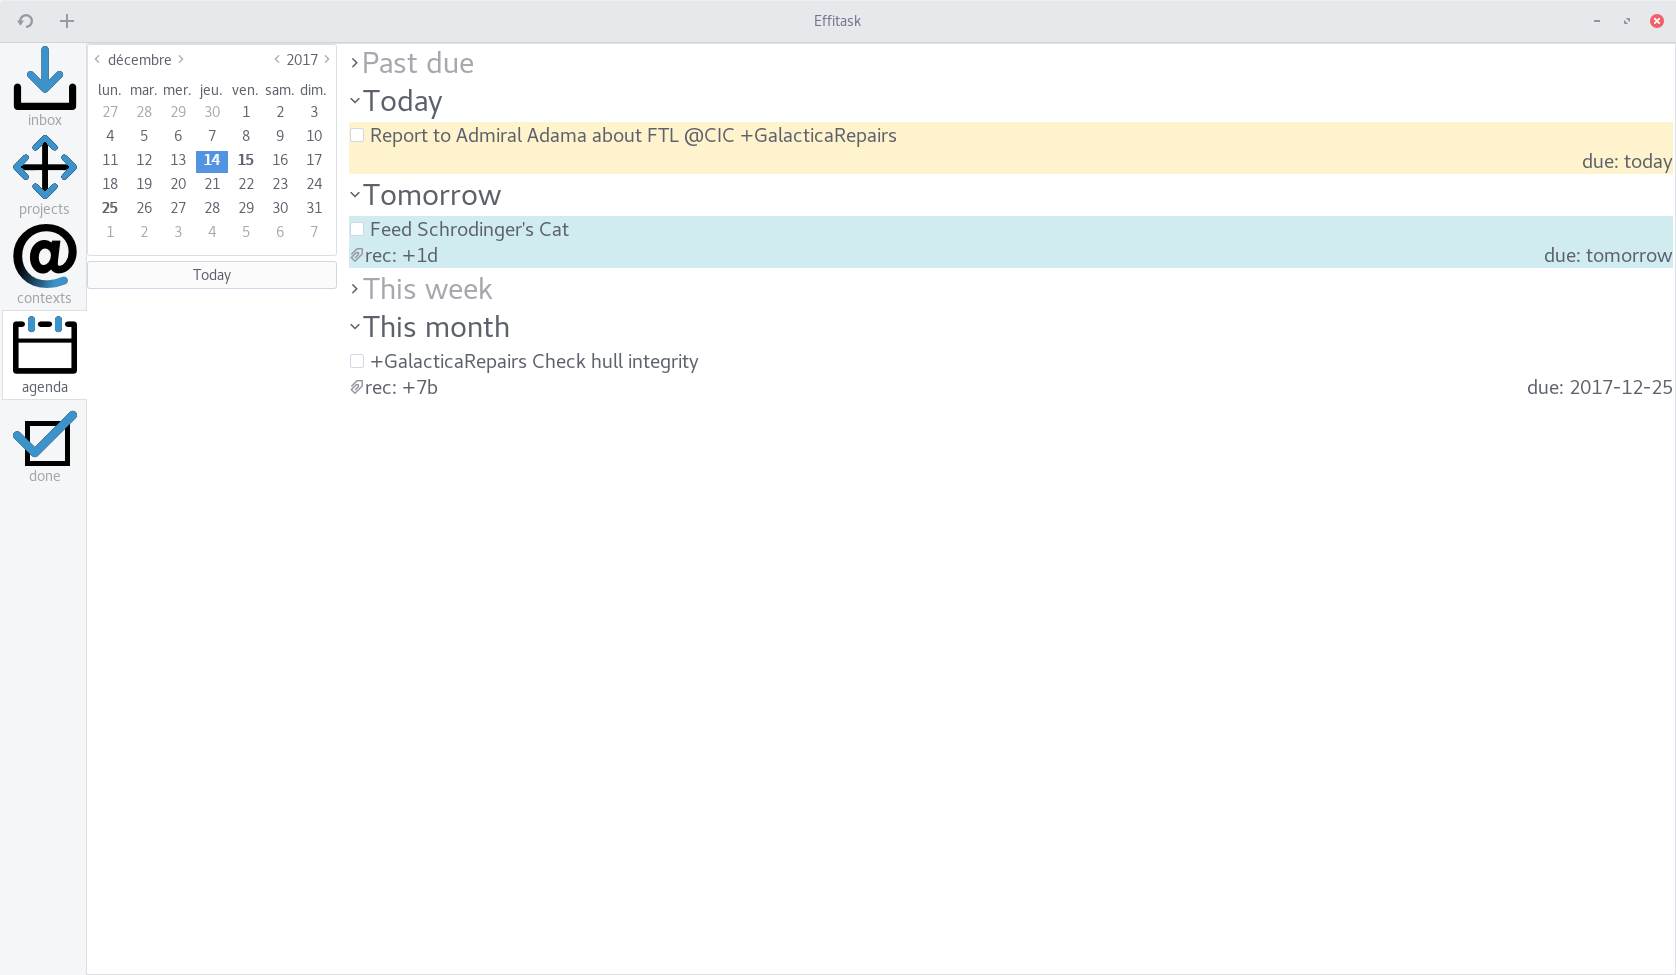
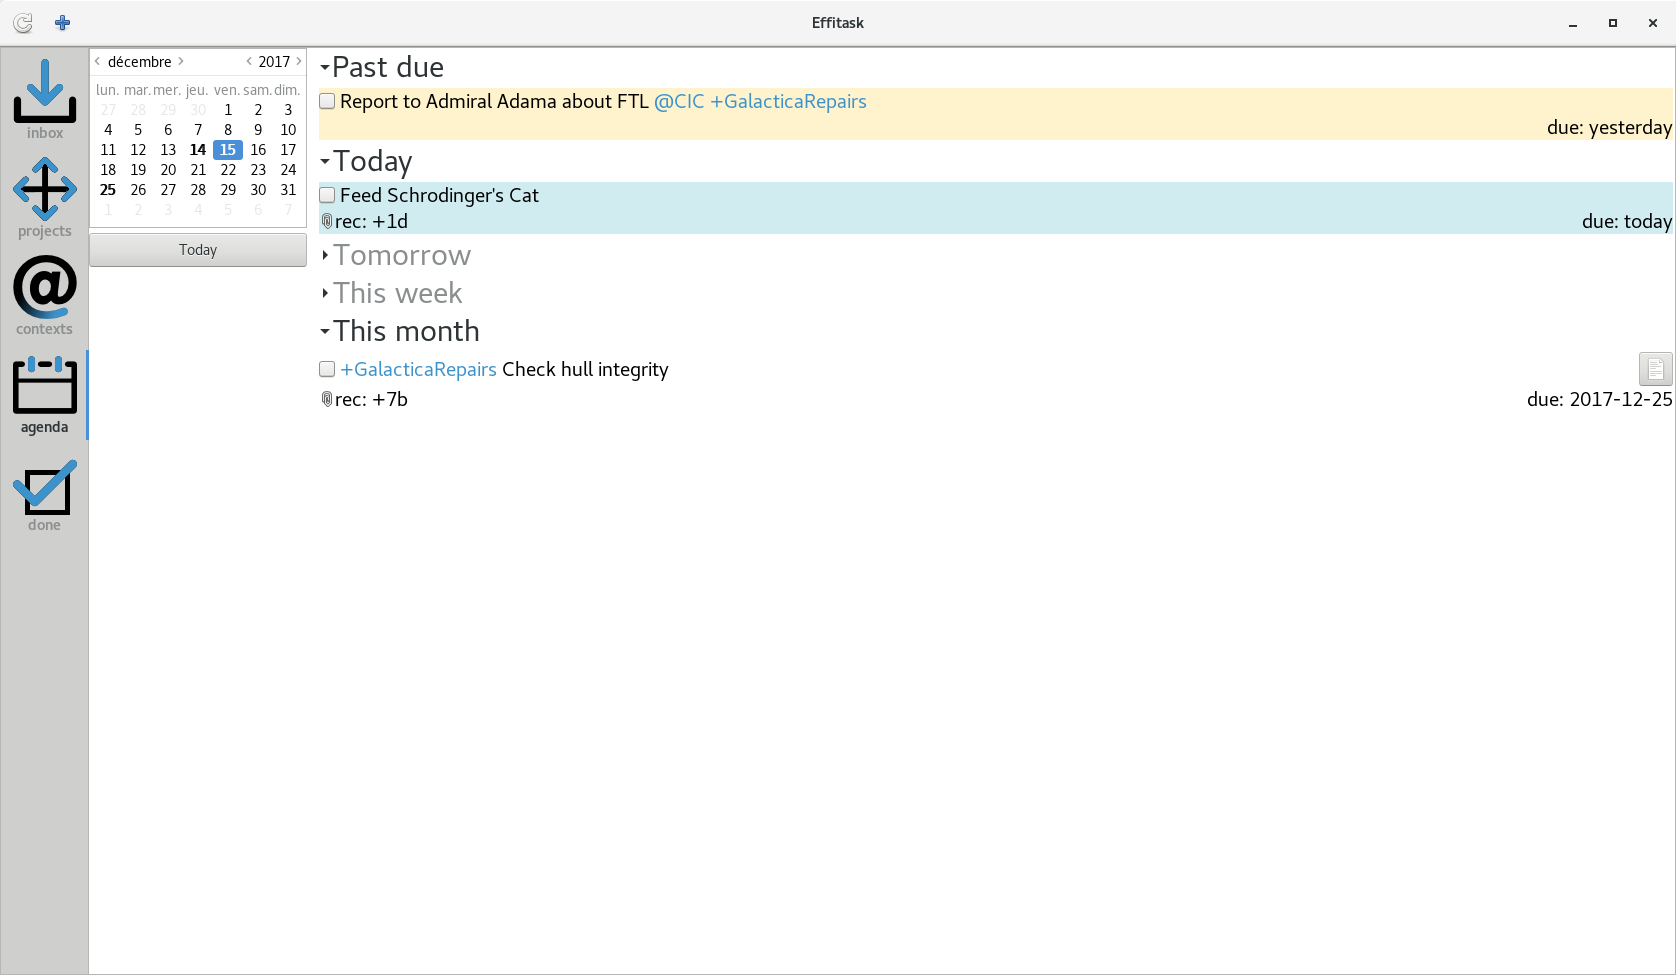
Highlight tags

Changed region(s): [[0.0, 0.0, 1.0, 1.0], [0.8998, 0.3385, 1.0, 0.4308], [0.9928, 0.9846, 1.0, 1.0]]

diff --git a/src/tasks/task.rs b/src/tasks/task.rs
@@ -18,11 +18,19 @@ impl Task
 
     pub fn markup_subject(&self) -> String
     {
+        let mut subject = self.subject.clone();
+
         let regex = ::regex::Regex::new("(?P<url>[\\w]+://[^\\s]+)")
             .unwrap();
+        subject = regex.replace_all(&subject, "<a href=\"$url\">$url</a>")
+            .into_owned();
 
-        regex.replace(&self.subject, "<a href=\"$url\">$url</a>")
-            .into_owned()
+        let regex = ::regex::Regex::new("(?P<space>^|[\\s])(?P<tag>[\\+@][\\w-]+)")
+            .unwrap();
+        subject = regex.replace_all(&subject, "$space<span color=\"#3C92CA\">$tag</span>")
+            .into_owned();
+
+        subject
     }
 
     fn note(task: &::todo_txt::Task) -> super::Note
